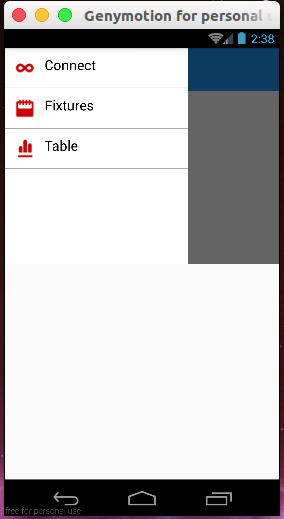
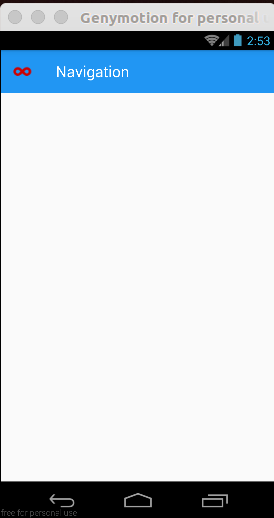
ok

Changed region(s): [[0.0, 0.0, 1.0, 1.0], [0.146, 0.2471, 0.292, 0.3089]]

diff --git a/Navigation/app/src/main/java/com/example/enclaveit/navigation/MainActivity.java b/Navigation/app/src/main/java/com/example/enclaveit/navigation/MainActivity.java
@@ -8,7 +8,7 @@ import android.support.v7.app.AppCompatActivity;
 import android.os.Bundle;
 import android.support.v7.widget.Toolbar;
 import android.util.Log;
-import android.view.MenuItem;
+import android.view.Gravity;
 import android.view.View;
 import android.widget.AdapterView;
 import android.widget.ListView;
@@ -43,7 +43,7 @@ public class MainActivity extends AppCompatActivity {
         drawerItem[1] = new DataModel(R.drawable.fixtures, "Fixtures");
         drawerItem[2] = new DataModel(R.drawable.table, "Table");
 
-        mDrawerList.setAdapter(new DrawerItemCustomAdapter(this, R.layout.list_view_item_row, drawerItem));
+        mDrawerList.setAdapter(new DrawerAdapter(this, R.layout.list_view_item_row, drawerItem));
         mDrawerList.setOnItemClickListener(new DrawerItemClickListener());
         mDrawerLayout = (DrawerLayout) findViewById(R.id.drawer_layout);
         setupDrawerToggle();
@@ -86,24 +86,9 @@ public class MainActivity extends AppCompatActivity {
     }
 
     @Override
-    public boolean onOptionsItemSelected(MenuItem item) {
-
-        if (mDrawerToggle.onOptionsItemSelected(item)) {
-            return true;
-        }
-        return super.onOptionsItemSelected(item);
-    }
-
-    @Override
     public void setTitle(CharSequence title) {
         mTitle = title;
         getSupportActionBar().setTitle(mTitle);
-    }
-
-    @Override
-    protected void onPostCreate(Bundle savedInstanceState) {
-        super.onPostCreate(savedInstanceState);
-        mDrawerToggle.syncState();
     }
 
     void setupToolbar(){
@@ -112,7 +97,12 @@ public class MainActivity extends AppCompatActivity {
     }
 
     void setupDrawerToggle(){
-        mDrawerToggle = new ActionBarDrawerToggle(this,mDrawerLayout,toolbar,R.string.app_name, R.string.app_name);
-        mDrawerToggle.syncState();
+        toolbar.setNavigationIcon(R.drawable.connect);
+        toolbar.setNavigationOnClickListener(new View.OnClickListener() {
+            @Override
+            public void onClick(View v) {
+                mDrawerLayout.openDrawer(Gravity.LEFT);
+            }
+        });
     }
 }

diff --git a/Navigation/app/src/main/java/com/example/enclaveit/navigation/DrawerAdapter.java b/Navigation/app/src/main/java/com/example/enclaveit/navigation/DrawerAdapter.java
@@ -15,13 +15,13 @@ import java.util.List;
  * Created by enclaveit on 27/12/2016.
  */
 
-public class DrawerItemCustomAdapter extends ArrayAdapter<DataModel>{
+public class DrawerAdapter extends ArrayAdapter<DataModel>{
 
     private Context mContext;
     private int layoutResourceId;
     private DataModel data[] = null;
 
-    public DrawerItemCustomAdapter(Context mContext, int layoutResourceId, DataModel[] data) {
+    public DrawerAdapter(Context mContext, int layoutResourceId, DataModel[] data) {
 
         super(mContext, layoutResourceId, data);
         this.layoutResourceId = layoutResourceId;

diff --git a/Navigation/README.md b/Navigation/README.md
@@ -44,3 +44,10 @@
   <img src="https://github.com/danisluis6/Researching-Widget-Navigation/blob/version2/Navigation/1.png">
 </p>
 
+<p align="center">
+  <img src="https://github.com/danisluis6/Researching-Widget-Navigation/blob/version2/Navigation/2.png">
+</p>
+
+<p align="center">
+  <img src="https://github.com/danisluis6/Researching-Widget-Navigation/blob/version2/Navigation/3.png">
+</p>
